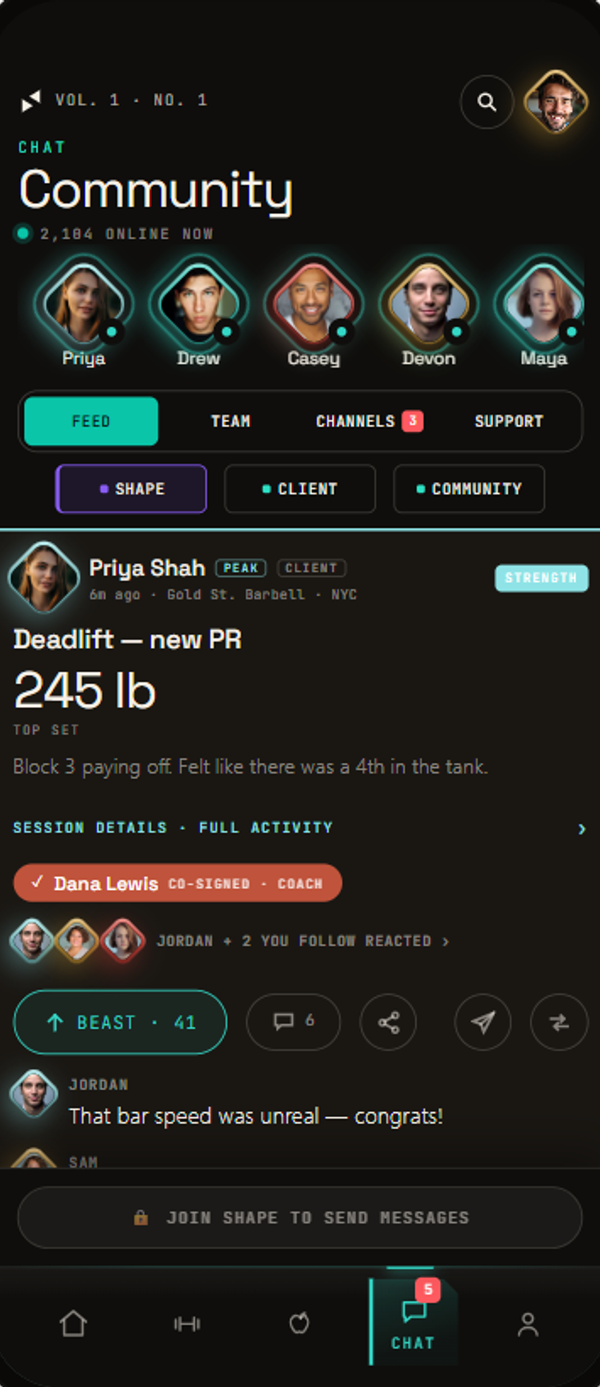
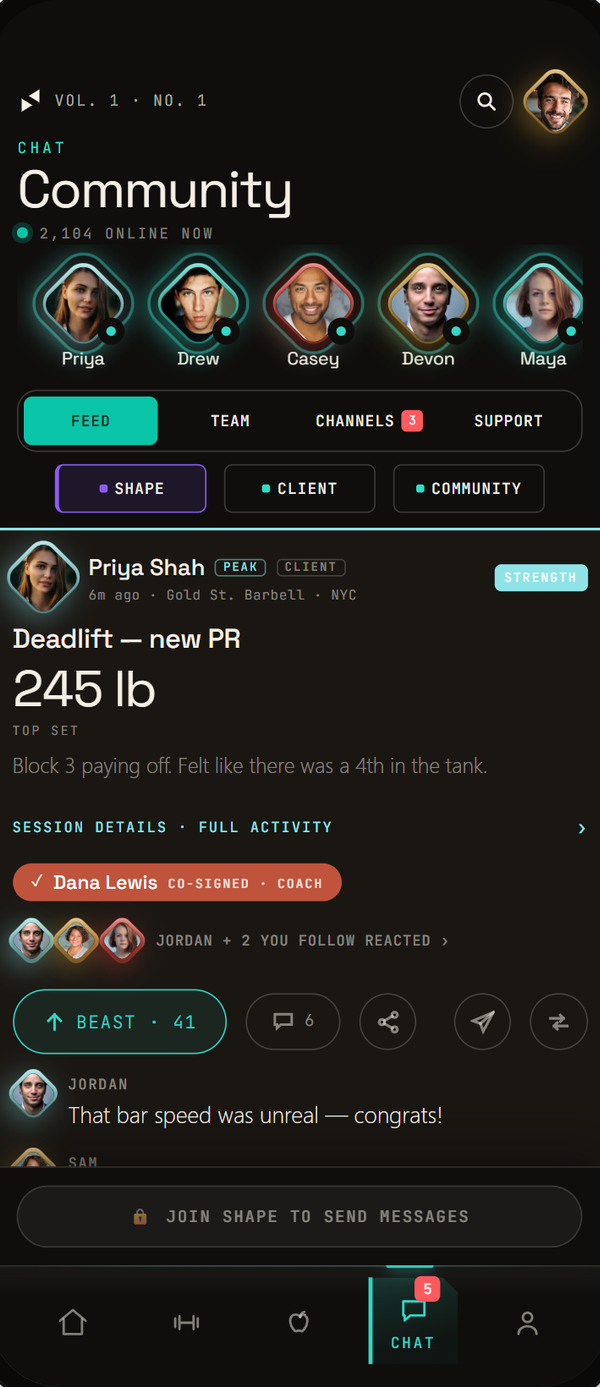
fix(web): re-capture the landing Community phone at native resolution (crisp)
The Community phone screenshot was captured at 366px wide and upscaled to 600px,
so it rendered noticeably soft/blurry next to the four native-600 sibling phones
(visible as fuzzy 'VOL · NO ·' text, especially on retina). Re-captured the mobile
Community feed at device-pixel-ratio 2 (732px) and downscaled to the canonical
600x1387 — now sharp and matching the siblings. ?v=20260620b on index.html + GetApp.html.

diff --git a/public/newdesign/GetApp.html b/public/newdesign/GetApp.html
@@ -293,7 +293,7 @@
     { kind: "SCORE",    title: "One number that matters.",     body: "A five-tier ladder rewarding consistency across training, nutrition, and recovery. It only moves when you show up.", img: "/newdesign/getapp-score-v2.png?v=20260617", dark: true },
     { kind: "PROFILE",  title: "A profile that's alive.",      body: "Your climb, your Shape Score, PRs and playlists — a living page that grows as you do. Make it public or keep it private; it's yours.", img: "/newdesign/getapp-profile-v1.png?v=20260617", dark: true },
     { kind: "RADIO",    title: "Music built for movement.",    body: "Live mixes curated by your coach. Each track's BPM syncs with your wearable — when the two lock in, your pace becomes the song.", img: "/newdesign/getapp-radio-v2.png?v=20260617", dark: true },
-    { kind: "COMMUNITY", title: "The social side of strong.",   body: "See who's training now, cheer a friend's PR, and post your own. A live feed, member channels, and coach co-signs turn solo workouts into a community — the energy of a gym floor, wherever you train.", img: "/newdesign/getapp-community-v1.png?v=20260620", dark: false }
+    { kind: "COMMUNITY", title: "The social side of strong.",   body: "See who's training now, cheer a friend's PR, and post your own. A live feed, member channels, and coach co-signs turn solo workouts into a community — the energy of a gym floor, wherever you train.", img: "/newdesign/getapp-community-v1.png?v=20260620b", dark: false }
   ];
 
   var i = 0;

diff --git a/public/newdesign/index.html b/public/newdesign/index.html
@@ -587,7 +587,7 @@
     </div>
     <div class="beat" data-i="3">
       <div><div class="ix">04 — Coach</div><h2>A real human, <b>in the loop.</b></h2><p>Not a chatbot. A vetted coach reads the data, asks how you feel, and rewrites the plan — every single week.</p></div>
-      <div class="vis"><div class="scr"><img class="on" src="/newdesign/getapp-community-v1.png?v=20260620" alt="" /></div></div>
+      <div class="vis"><div class="scr"><img class="on" src="/newdesign/getapp-community-v1.png?v=20260620b" alt="" /></div></div>
     </div>
     <div class="beat" data-i="4">
       <div><div class="ix">05 — Profile</div><h2>A profile that <b>climbs with you.</b></h2><p>Your public page is alive — your climb, your Shape Score, your PRs and playlists. Share it, or keep it private. It's yours.</p></div>
